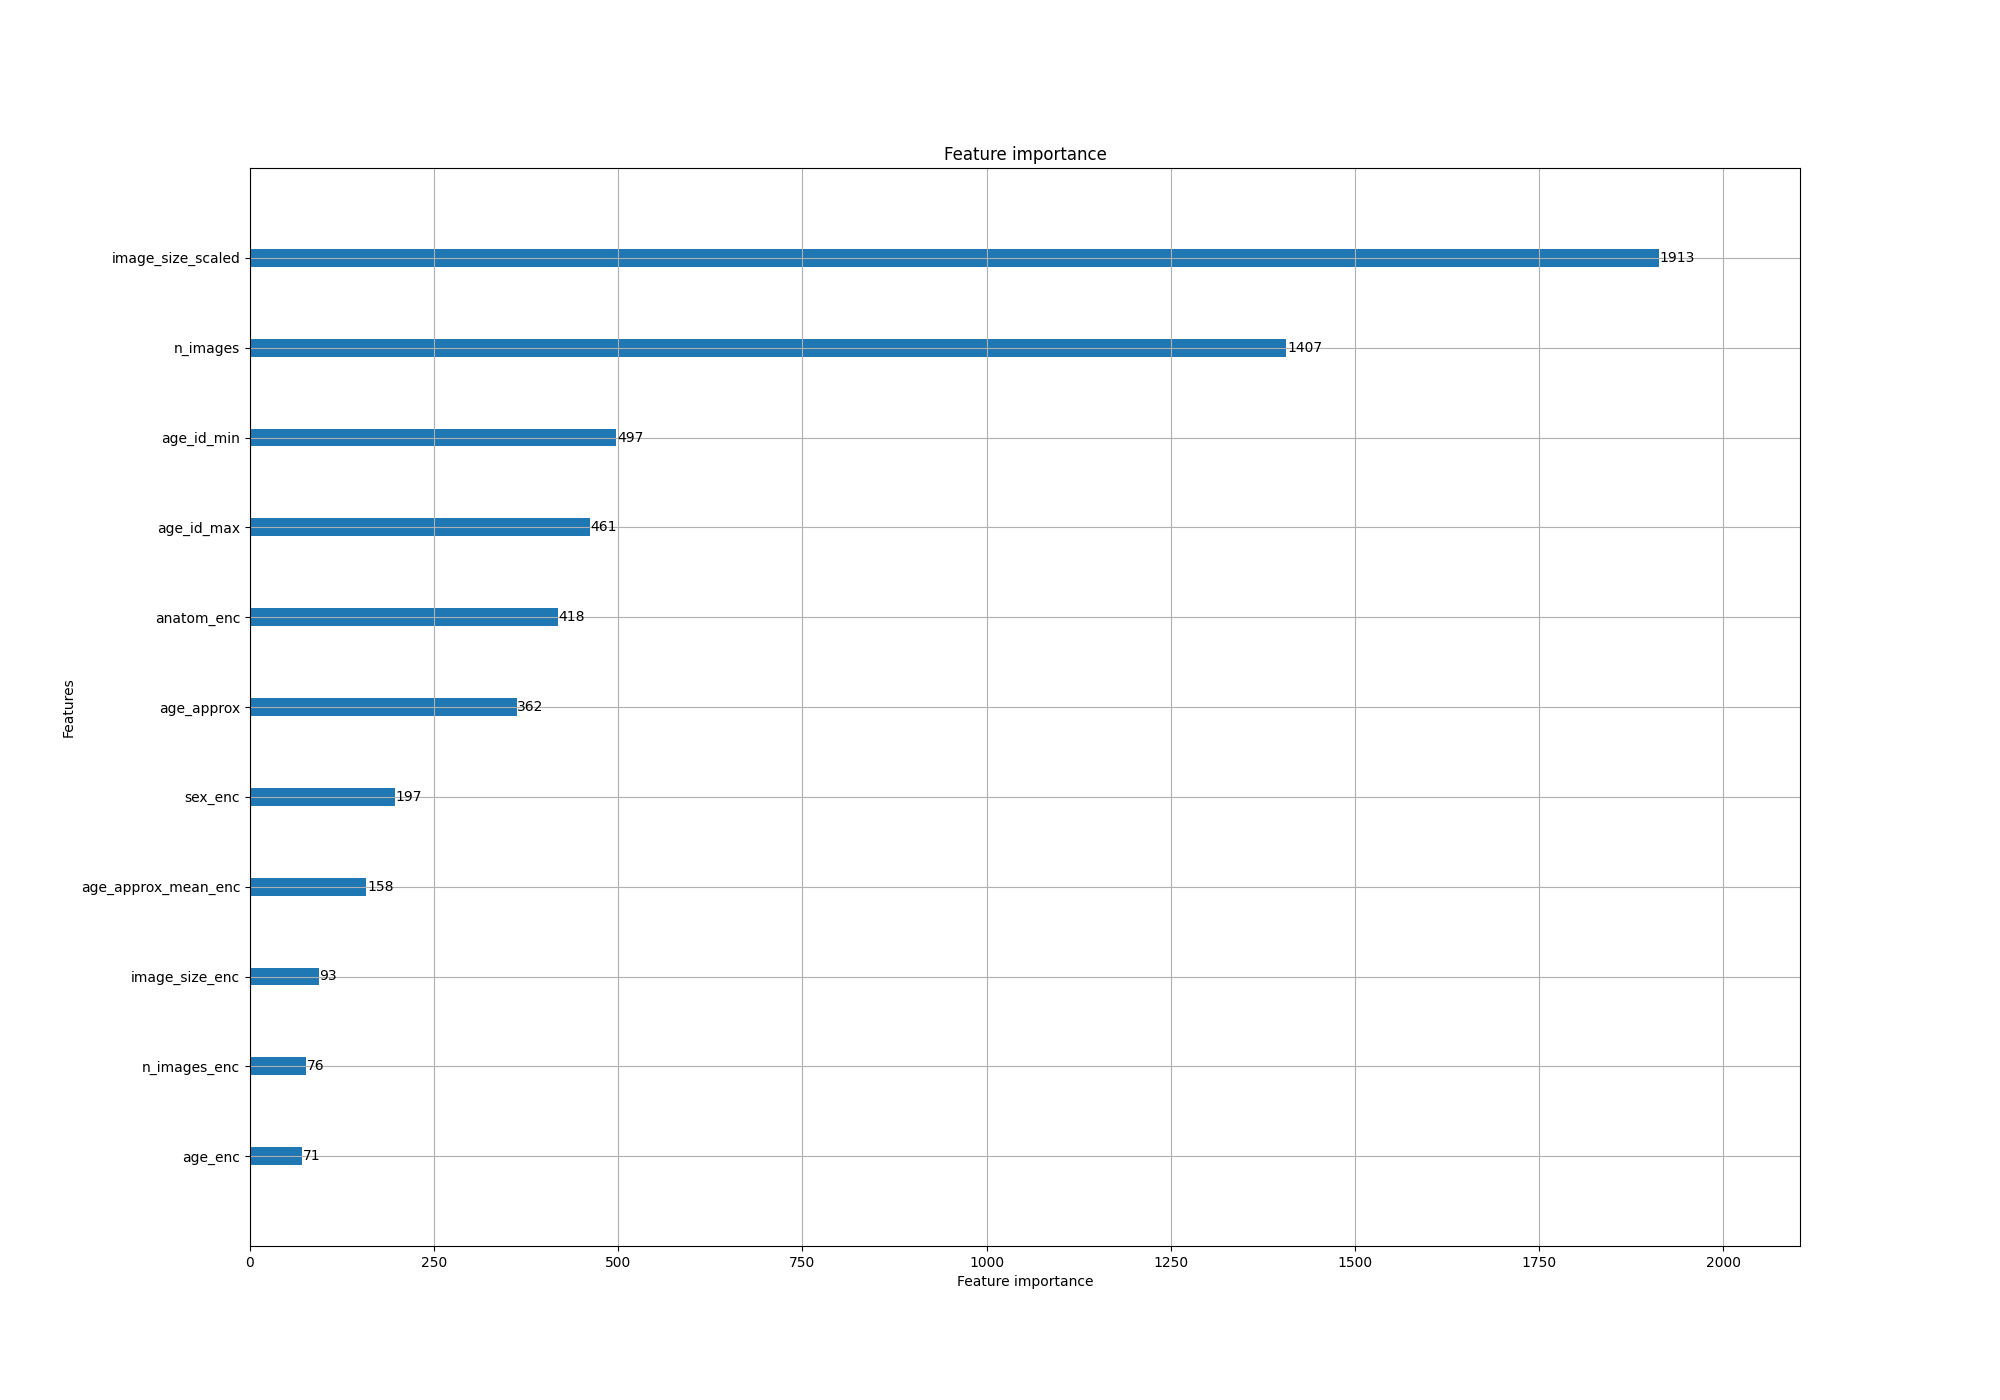
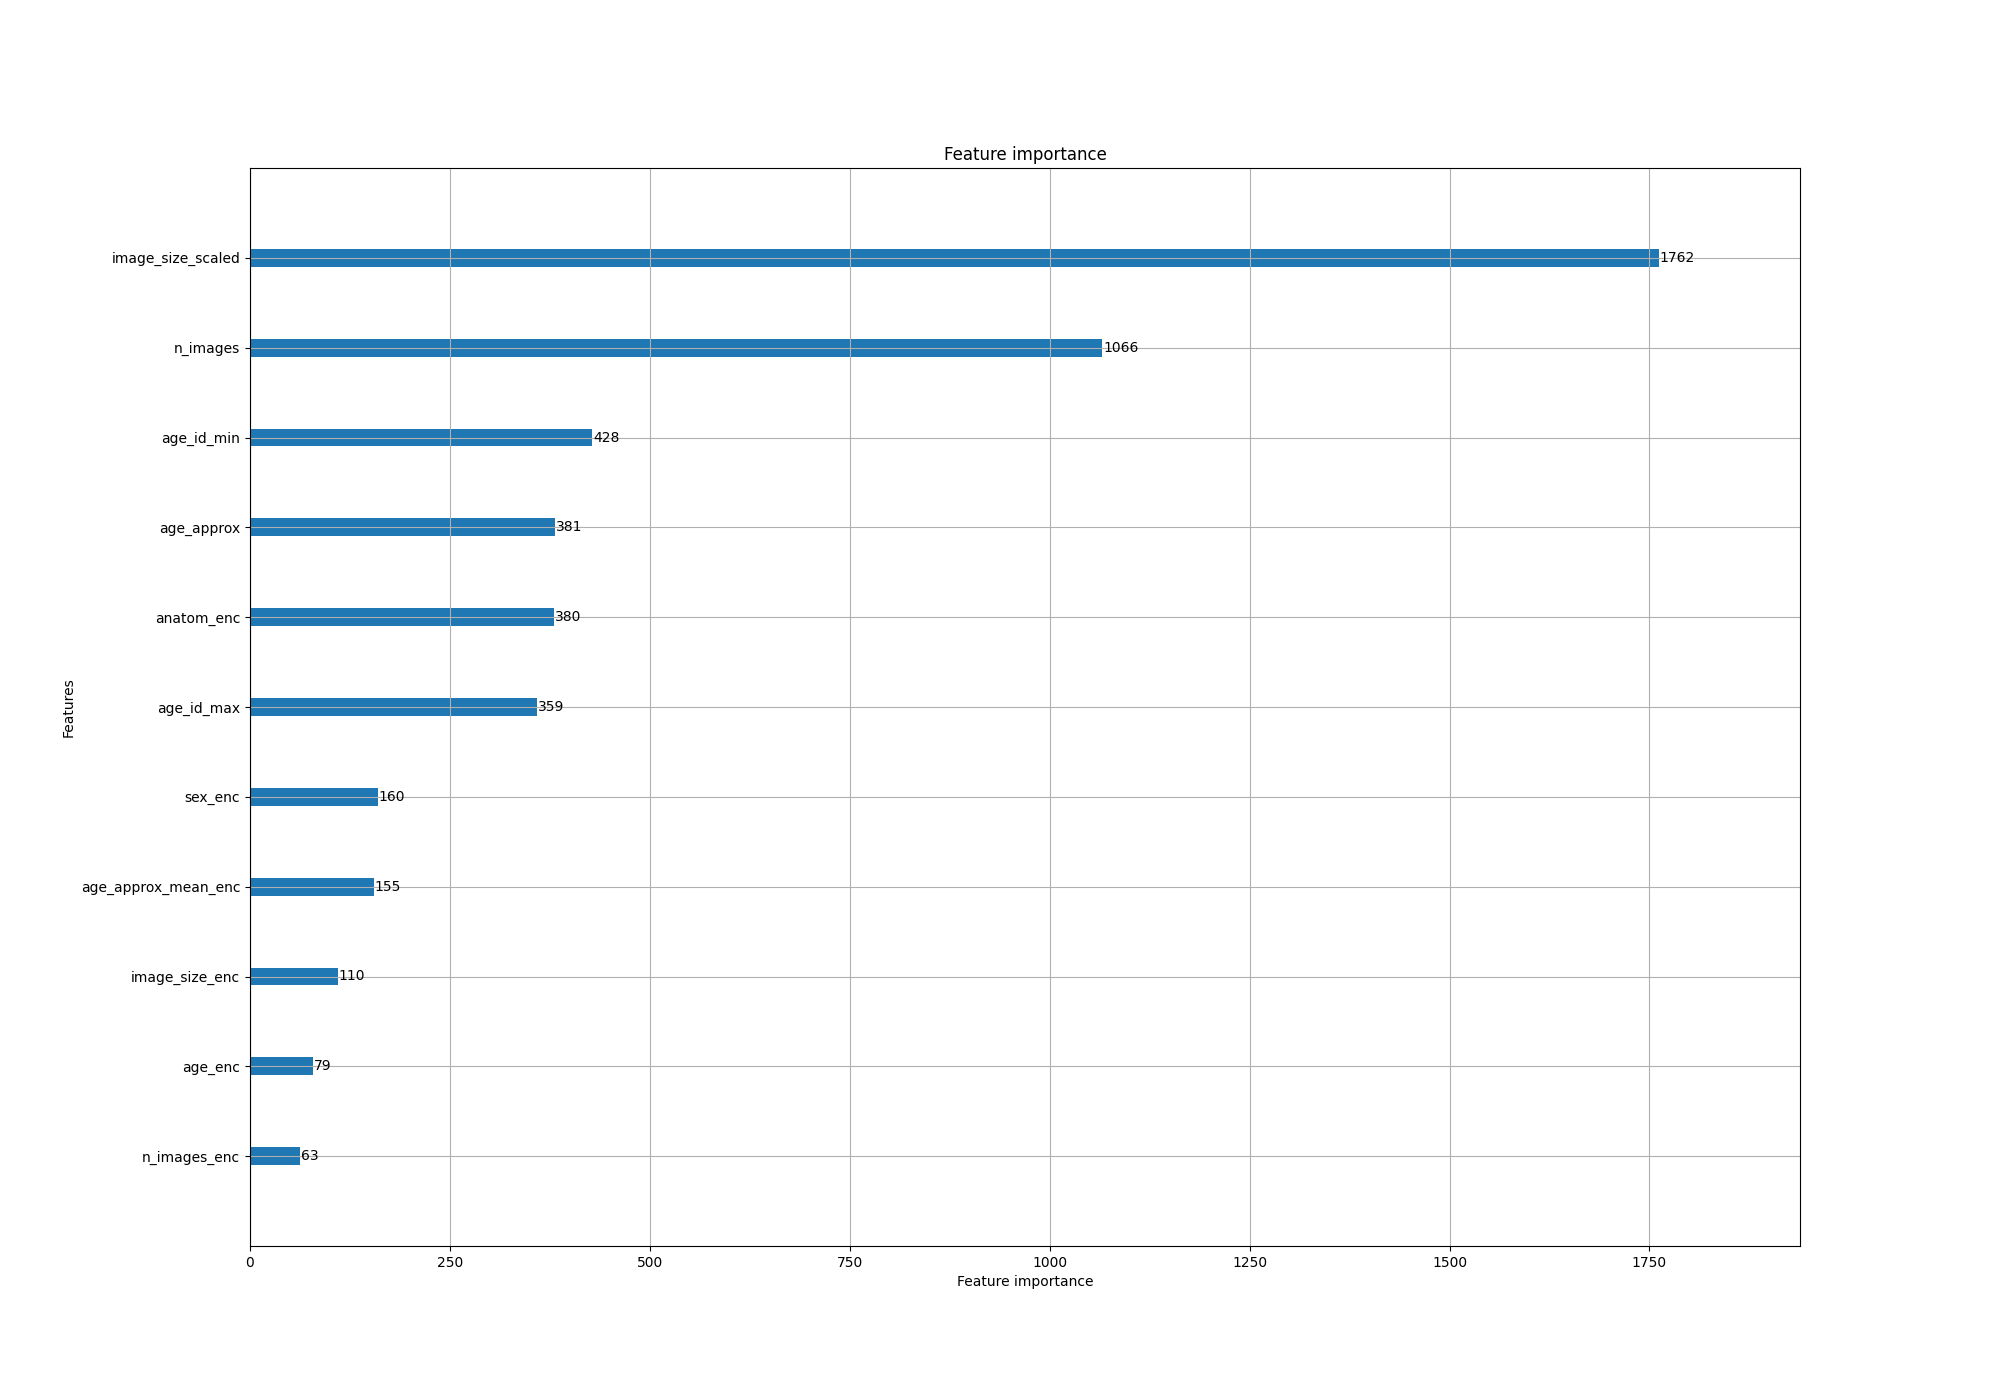
Update!

diff --git a/src/ml-project/train.py b/src/ml-project/train.py
@@ -34,7 +34,7 @@ def _main(args: argparse.Namespace):
         "age_approx_mean_enc",
         "age_id_min",
         "age_id_max",
-        "sex_enc",
+        # "sex_enc",
         "anatom_enc",
         "n_images",
         "n_images_enc",

diff --git a/README.md b/README.md
@@ -19,7 +19,7 @@
 
 ### Feature Engineering
 ##### meta data에 관하여 GBDT 모델을 사용하기 위해 Feature Engineering을 수행
-+ sex_enc: 성별을 이진화
++ sex_enc: 성별을 이진화 -> 도메인 지식을 활용하여 학습에서 제외 (예측 성능 향상)
 + age_enc: 나이를 구간별로 나누어 label encoding함
 + age_approx_mean_enc: age_enc를 mean_encoding 함
 + anatom_enc: anatom_site_general_challenge를 label encoding함
@@ -38,11 +38,50 @@
     + 기대향상(EI)은 어떤 매개변수로 모델의 점수를 계산 했을때 점수 계선량의 기댓값을 지금까지의 탐색 이력에 추정한 값이다.
     + TPE(Tree-structured Parzen Estimator)는 기대 향샹의 계산에 필요한 ![CodeCogsEqn (1)](https://user-images.githubusercontent.com/46340424/120889562-c590c700-c638-11eb-9fbf-d127f4d42e71.gif)을 구하는 하나의 방법이다
 
-    + 기대향상 수식
-
+    + 기대향상 수식 및 코드 구현
         ![CodeCogsEqn](https://user-images.githubusercontent.com/46340424/120889548-b01b9d00-c638-11eb-9208-ecca8f311832.gif)
+        ```python
+        from optuna.samplers import TPESampler
+        import optuna
 
+        class BayesianOptimizer:
+            def __init__(self, objective_function: object):
+                self.objective_function = objective_function
 
+            def build_study(self, trials: int, verbose: bool = False):
+                sampler = TPESampler(seed=42)
+                study = optuna.create_study(
+                    study_name="parameter_opt",
+                    direction="maximize",
+                    sampler=sampler,
+                )
+                study.optimize(self.objective_function, n_trials=trials)
+                if verbose:
+                    self.display_study_statistics(study)
+                return study
+
+            def display_study_statistics(study: optuna.create_study):
+                print("Best Score:", study.best_value)
+                print("Best trial:", study.best_trial.params)
+            ...
+        ```
+    + 실행 방법
+    ```
+    python lgbm_optim.py --fold 10 --params best_lgbm.pkl --trials 350
+    ```
+## Cross-Validation 전략
++ K-Fold의 문제점
+    + K-Fold의 경우 일정한 간격으로 잘라서 사용하여 y라벨링의 값에 불균형한 영향을 줄 수 있다.
+    + 이러한 문제점을 해결하기 위해 나온 것이 stratified kFold이다.
++ Stratified K-Fold는 target에 속성값의 개수를 동일하게 가져감으로써 kfold와 같이 데이터가 한 곳으로 몰리는 경향을 방지한다.
+[K-fold 설명](https://continuous-development.tistory.com/166)
+
+## Train
++ Efficent-Net을 활용하여 이미지 데이터 학습
++ Boosting 모델을 학습 후 앙상블 진행
+```
+python train.py --fold 10
+```
 ## BenchMark
 ### Tabular-learning
 |model|OOF(5-fold)|OOF(10-fold)|
